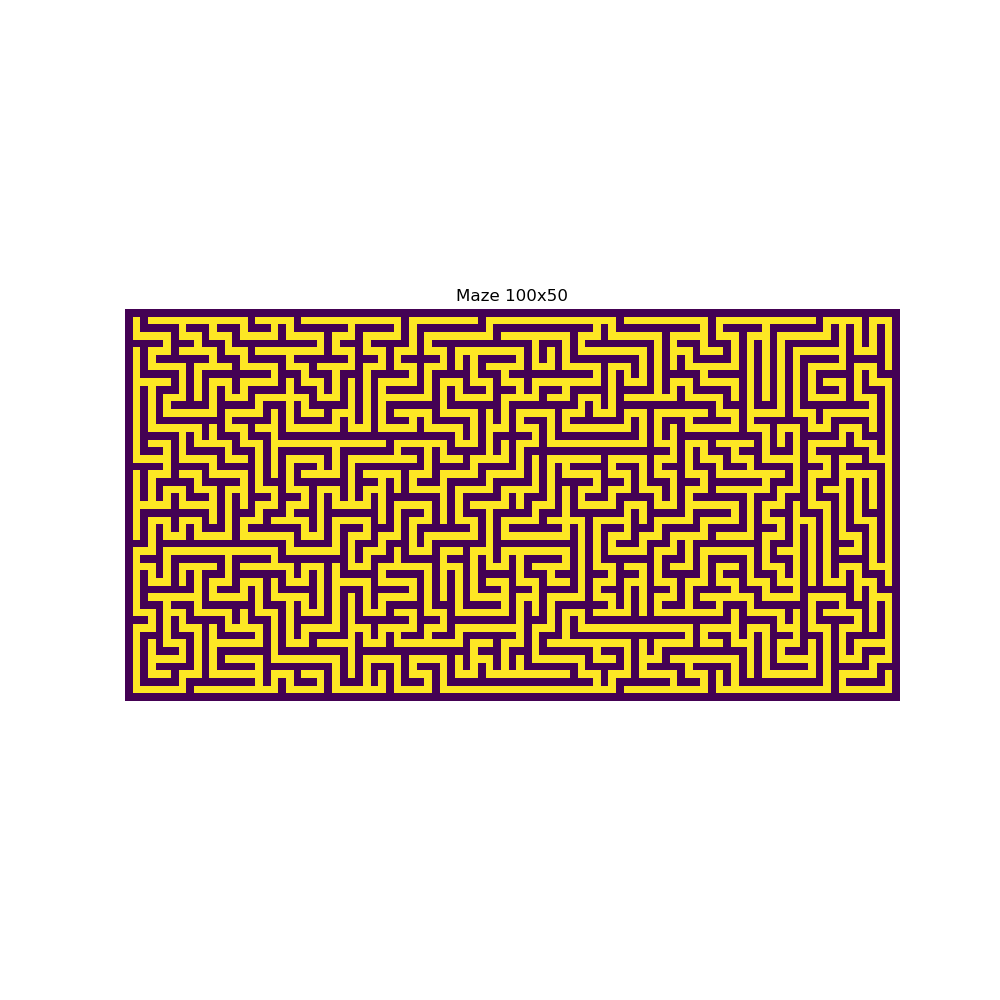
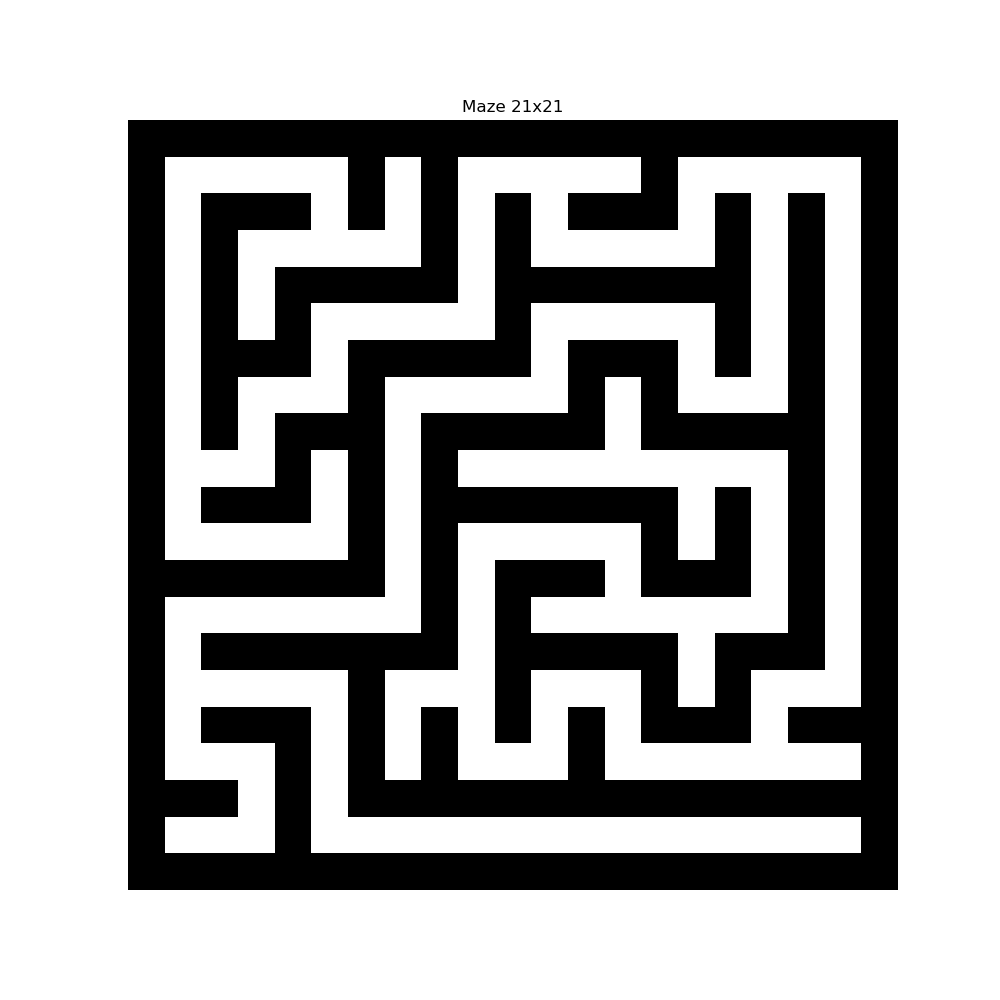
recursive backtracker: progress

diff --git a/py.py b/py.py
@@ -1,100 +1,69 @@
+import numpy as np
+import matplotlib.pyplot as plt
+import sys
 import random
 
-WIDTH = 39 # Width of the maze (must be odd).
-HEIGHT = 19 # Height of the maze (must be odd).
-assert WIDTH % 2 == 1 and WIDTH >= 3
-assert HEIGHT % 2 == 1 and HEIGHT >= 3
-SEED = 1
-random.seed(SEED)
+sys.setrecursionlimit(10000)
+random.seed(42)
+def maze_creator(height: int, width: int) -> np.ndarray:
+    if width % 2 == 0:
+        width += 1
+    if height % 2 == 0:
+        height += 1
 
-# Use these characters for displaying the maze:
-EMPTY = ' '
-MARK = '@'
-WALL = chr(9608) # Character 9608 is '█'
-NORTH, SOUTH, EAST, WEST = 'n', 's', 'e', 'w'
+    maze = np.ones((height, width), dtype=int)
+    return maze
 
-# Create the filled-in maze data structure to start:
-maze = {}
-for x in range(WIDTH):
-    for y in range(HEIGHT):
-        maze[(x, y)] = WALL # Every space is a wall at first.
+def recursive_backtracker(maze, x, y, height, width) -> None:
+    maze[y, x] = 0
 
-def printMaze(maze, markX=None, markY=None):
-    """Displays the maze data structure in the maze argument. The
-    markX and markY arguments are coordinates of the current
-    '@' location of the algorithm as it generates the maze."""
+    directions = ["north", "south", "west", "east"]
+    random.shuffle(directions)
+    for move in directions:
+        if move == "north" and y > 1 and maze[y-2, x] == 1:
+            maze[y-1, x] = 0
+            recursive_backtracker(maze, x, y-2, height, width)
+        elif move == "south" and y < height - 2 and maze[y+2, x] == 1:
+            maze[y+1, x] = 0
+            recursive_backtracker(maze, x, y+2, height, width)
+        elif move == "west" and x > 1 and maze[y, x-2] == 1:
+            maze[y, x-1] = 0
+            recursive_backtracker(maze, x-2, y, height, width)
+        elif move == "east" and x < width - 2 and maze[y, x+2] == 1:
+            maze[y, x+1] = 0
+            recursive_backtracker(maze, x+2, y, height, width)
 
-    for y in range(HEIGHT):
-        for x in range(WIDTH):
-            if markX == x and markY == y:
-                # Display the '@' mark here:
-                print(MARK, end='')
-            else:
-                # Display the wall or empty space:
-                print(maze[(x, y)], end='')
-        print() # Print a newline after printing the row.
-
-
-def visit(x, y):
-    """"Carve out" empty spaces in the maze at x, y and then
-    recursively move to neighboring unvisited spaces. This
-    function backtracks when the mark has reached a dead end."""
-    maze[(x, y)] = EMPTY # "Carve out" the space at x, y.
-    printMaze(maze, x, y) # Display the maze as we generate it.
-    print('\n\n')
-
-    while True:
-        # Check which neighboring spaces adjacent to
-        # the mark have not been visited already:
-        unvisitedNeighbors = []
-        if y > 1 and (x, y - 2) not in hasVisited:
-            unvisitedNeighbors.append(NORTH)
-
-        if y < HEIGHT - 2 and (x, y + 2) not in hasVisited:
-            unvisitedNeighbors.append(SOUTH)
-
-        if x > 1 and (x - 2, y) not in hasVisited:
-            unvisitedNeighbors.append(WEST)
-
-        if x < WIDTH - 2 and (x + 2, y) not in hasVisited:
-            unvisitedNeighbors.append(EAST)
-
-        if len(unvisitedNeighbors) == 0:
-            # BASE CASE
-            # All neighboring spaces have been visited, so this is a
-            # dead end. Backtrack to an earlier space:
-            return
-        else:
-            # RECURSIVE CASE
-            # Randomly pick an unvisited neighbor to visit:
-            nextIntersection = random.choice(unvisitedNeighbors)
-
-            # Move the mark to an unvisited neighboring space:
-
-            if nextIntersection == NORTH:
-                nextX = x
-                nextY = y - 2
-                maze[(x, y - 1)] = EMPTY # Connecting hallway.
-            elif nextIntersection == SOUTH:
-                nextX = x
-                nextY = y + 2
-                maze[(x, y + 1)] = EMPTY # Connecting hallway.
-            elif nextIntersection == WEST:
-                nextX = x - 2
-                nextY = y
-                maze[(x - 1, y)] = EMPTY # Connecting hallway.
-            elif nextIntersection == EAST:
-                nextX = x + 2
-                nextY = y
-                maze[(x + 1, y)] = EMPTY # Connecting hallway.
-
-            hasVisited.append((nextX, nextY)) # Mark as visited.
-            visit(nextX, nextY) # Recursively visit this space.
+def generate_maze(height: int, width: int) -> np.ndarray:
+    maze = maze_creator(height, width)
+    recursive_backtracker(maze, 19, 19, height, width)
+    return maze
 
 
-# Carve out the paths in the maze data structure:
-hasVisited = [(1, 1)] # Start by visiting the top-left corner.
-visit(1, 1)
+def imperfect_maze(maze, height, width, imperfection_rate) :
+    removeable_walls = []
+    for y in range(1, height - 1):
+        for x in range(1, width - 1):
+            if(maze[y,x] == 1):
+                if (maze[y+1, x] == 0 and maze[y-1, x] == 0) or (maze[y, x+1] == 0 and maze[y, x-1] == 0):
+                    removeable_walls.append((y,x))
+    random.shuffle(removeable_walls)
+    for y, x in removeable_walls[:imperfection_rate]:
+        maze[y, x] = 0
+    return maze
 
-# Display the final resulting maze data structure:
-printMaze(maze)
+
+if __name__ == "__main__":
+
+    h, w = 21, 21 
+    maze = generate_maze(h, w)
+    maze = imperfect_maze(maze, h, w, 8)
+    plt.figure(figsize=(10, 10))
+
+    plt.imshow(maze, cmap='binary') 
+    
+    plt.title(f"Maze {maze.shape[1]}x{maze.shape[0]}")
+    plt.axis('off') 
+    
+    output_file = 'maze_py_py.png'
+    plt.savefig(output_file)
+    print(f"Maze visualization saved to {output_file}")

diff --git a/a_maze_ing__parts.py b/a_maze_ing__parts.py
@@ -1,48 +1,59 @@
 import numpy as m
 import enum as en
+import numpy as m
+import matplotlib.pyplot as plt
+import sys
+import random
+sys.setrecursionlimit(10000)
 
-
-def maze_creator(width: int, height: int) -> list:
+def maze_creator(height: int, width: int) -> list:
     if width % 2 == 0:
         width += 1
     if height % 2 == 0:
         height += 1
     #(rows, columns) {matrix indexing} ==> row = heigth, column = width
-    maze = m.ones((height, width),dtype=float) 
-    for i in range(height):
-        for j in range (width):
-            if  i % 2 == 0 or j % 2 == 0:
-                maze[i][j] = 0
-            if i % 2 != 0 or j % 2 != 0 or i == width - 1 or j == height - 1:
-                maze[i][j] = 0.5
+    maze = m.ones((height, width),dtype=int)
     return maze
-def recursive_backtracker(maze, x, y) -> None:
-    maze[y, x] = 0.5
-    
-    if maze[y-2, x] == 0.5 and maze[y+2, x] == 0.5 and maze[y, x-2] == 0.5 and maze[y, x+2] == 0.5:
-        return
-    else:
-        directions = tuple("north", "south", "west", "east")
-        while True:
-            move = m.random.choice(directions)
-            if move == "north" and maze[y-2, x] == 0.5:
-                maze[y-1, x] = 0.5
-                recursive_backtracker(maze, x, y-2)
-            elif move == "south" and maze[y+2, x] == 0.5:
-                maze[y+1, x] = 0.5
-                recursive_backtracker(maze, x, y+2)
-            elif move == "west" and maze[y, x-2] == 0.5:
-                maze[y, x-1] = 0.5
-                recursive_backtracker(maze, x-2, y)
-            elif move == "east" and maze[y, x+2] == 0.5:
-                maze[y, x+1] = 0.5
-                recursive_backtracker(maze, x+2, y)
-            break
 
-def generate_maze(width: int, height: int) -> list:
-    maze = maze_creator(width, height)
-    recursive_backtracker(maze, 1, 1)
+
+def recursive_backtracker(maze, height: int, width: int, x, y) -> None:
+    maze[y,x] = 0
+
+    directions = ["north", "south", "west", "east"]
+    random.shuffle(directions)
+    for move in directions:
+        if move == "north" and y > 1 and maze[y-2, x] == 1:
+            maze[y-1, x] = 0
+            recursive_backtracker(maze, height, width, x, y-2)
+        elif move == "south" and y < height - 2 and maze[y+2, x] == 1:
+            maze[y+1, x] = 0
+            recursive_backtracker(maze, height, width, x, y+2)
+        elif move == "west" and x > 1 and maze[y, x-2] == 1:
+            maze[y, x-1] = 0
+            recursive_backtracker(maze, height, width, x-2, y)
+        elif move == "east" and x < width - 2 and maze[y, x+2] == 1:
+            maze[y, x+1] = 0
+            recursive_backtracker(maze, height, width, x+2, y)
+
+def generate_maze(height: int, width: int) -> list:
+    maze = maze_creator(height, width)
+    # Start at 1,1
+    recursive_backtracker(maze, height, width, 1, 1)
     return maze
-maze = generate_maze(7, 5)
-for row in maze:
-    print(row)
+
+if __name__ == "__main__":
+    # Generate a maze
+    height, width = 100, 100
+    maze = generate_maze(height, width)
+    print(maze)
+    # maze = imperfect_maze(maze, 4, height, width)
+    # Visualization
+    plt.figure(figsize=(10, 10))
+    # Display the maze: Walls (0) will be purple/dark, Path (1) will be yellow/light
+    plt.imshow(maze) 
+    plt.title(f"Maze {width}x{height}")
+    plt.axis('off')
+    
+    output_file = 'maze_visualization.png'
+    plt.savefig(output_file)
+    print(f"Maze visualization saved to {output_file}")

diff --git a/visualize_maze.py b/visualize_maze.py
@@ -1,7 +1,10 @@
 import numpy as m
 import matplotlib.pyplot as plt
 import sys
+import random
 
+seed = 42
+m.random.seed(seed)
 # Increase recursion depth for deep mazes
 sys.setrecursionlimit(2000)
 
@@ -48,12 +51,24 @@ def generate_maze(width: int, height: int) -> list:
     # Start at 1,1
     recursive_backtracker(maze, 1, 1)
     return maze
+def imperfect_maze(maze, imperfection_rate, height, width) -> None:
+    removeable_walls = []
+    for y in range(1, height - 1):
+        for x in range(1, width - 1):
+            if maze[y][x] == 0:
+                if (maze[y+1, x] == 1 and maze[y-1, x] == 1) or (maze[y, x+1] == 1 and maze[y, x-1] == 1):
+                    removeable_walls += [(x, y)]
+    random.shuffle(removeable_walls)
+    for x, y in removeable_walls[:imperfection_rate]:
+        maze[y,x] = 1
+    return maze
 
 if __name__ == "__main__":
     # Generate a maze
-    width, height = 100, 50
+    width, height = 50, 50
     maze = generate_maze(width, height)
-    
+    print(maze)
+    maze = imperfect_maze(maze, 4, height, width)
     # Visualization
     plt.figure(figsize=(10, 10))
     # Display the maze: Walls (0) will be purple/dark, Path (1) will be yellow/light
